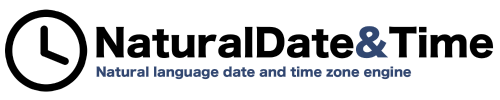
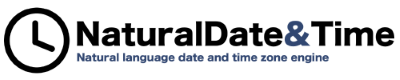
Reduced title image to 400 x 80.

diff --git a/naturaldateandtime.osx/QuestionViewController.swift b/naturaldateandtime.osx/QuestionViewController.swift
@@ -82,7 +82,7 @@ class QuestionViewController: NSViewController, NSTextFieldDelegate {
         if self.outerNotesView.hidden == false {
             height += self.outerNotesView.frame.height + 25
         }
-        self.delegate?.resizeToHeight(height + self.questionTextHeightConstraint.constant  + 200)
+        self.delegate?.resizeToHeight(height + self.questionTextHeightConstraint.constant  + 180)
     }
     
     func showPlaceholderExampleQuestion() {
